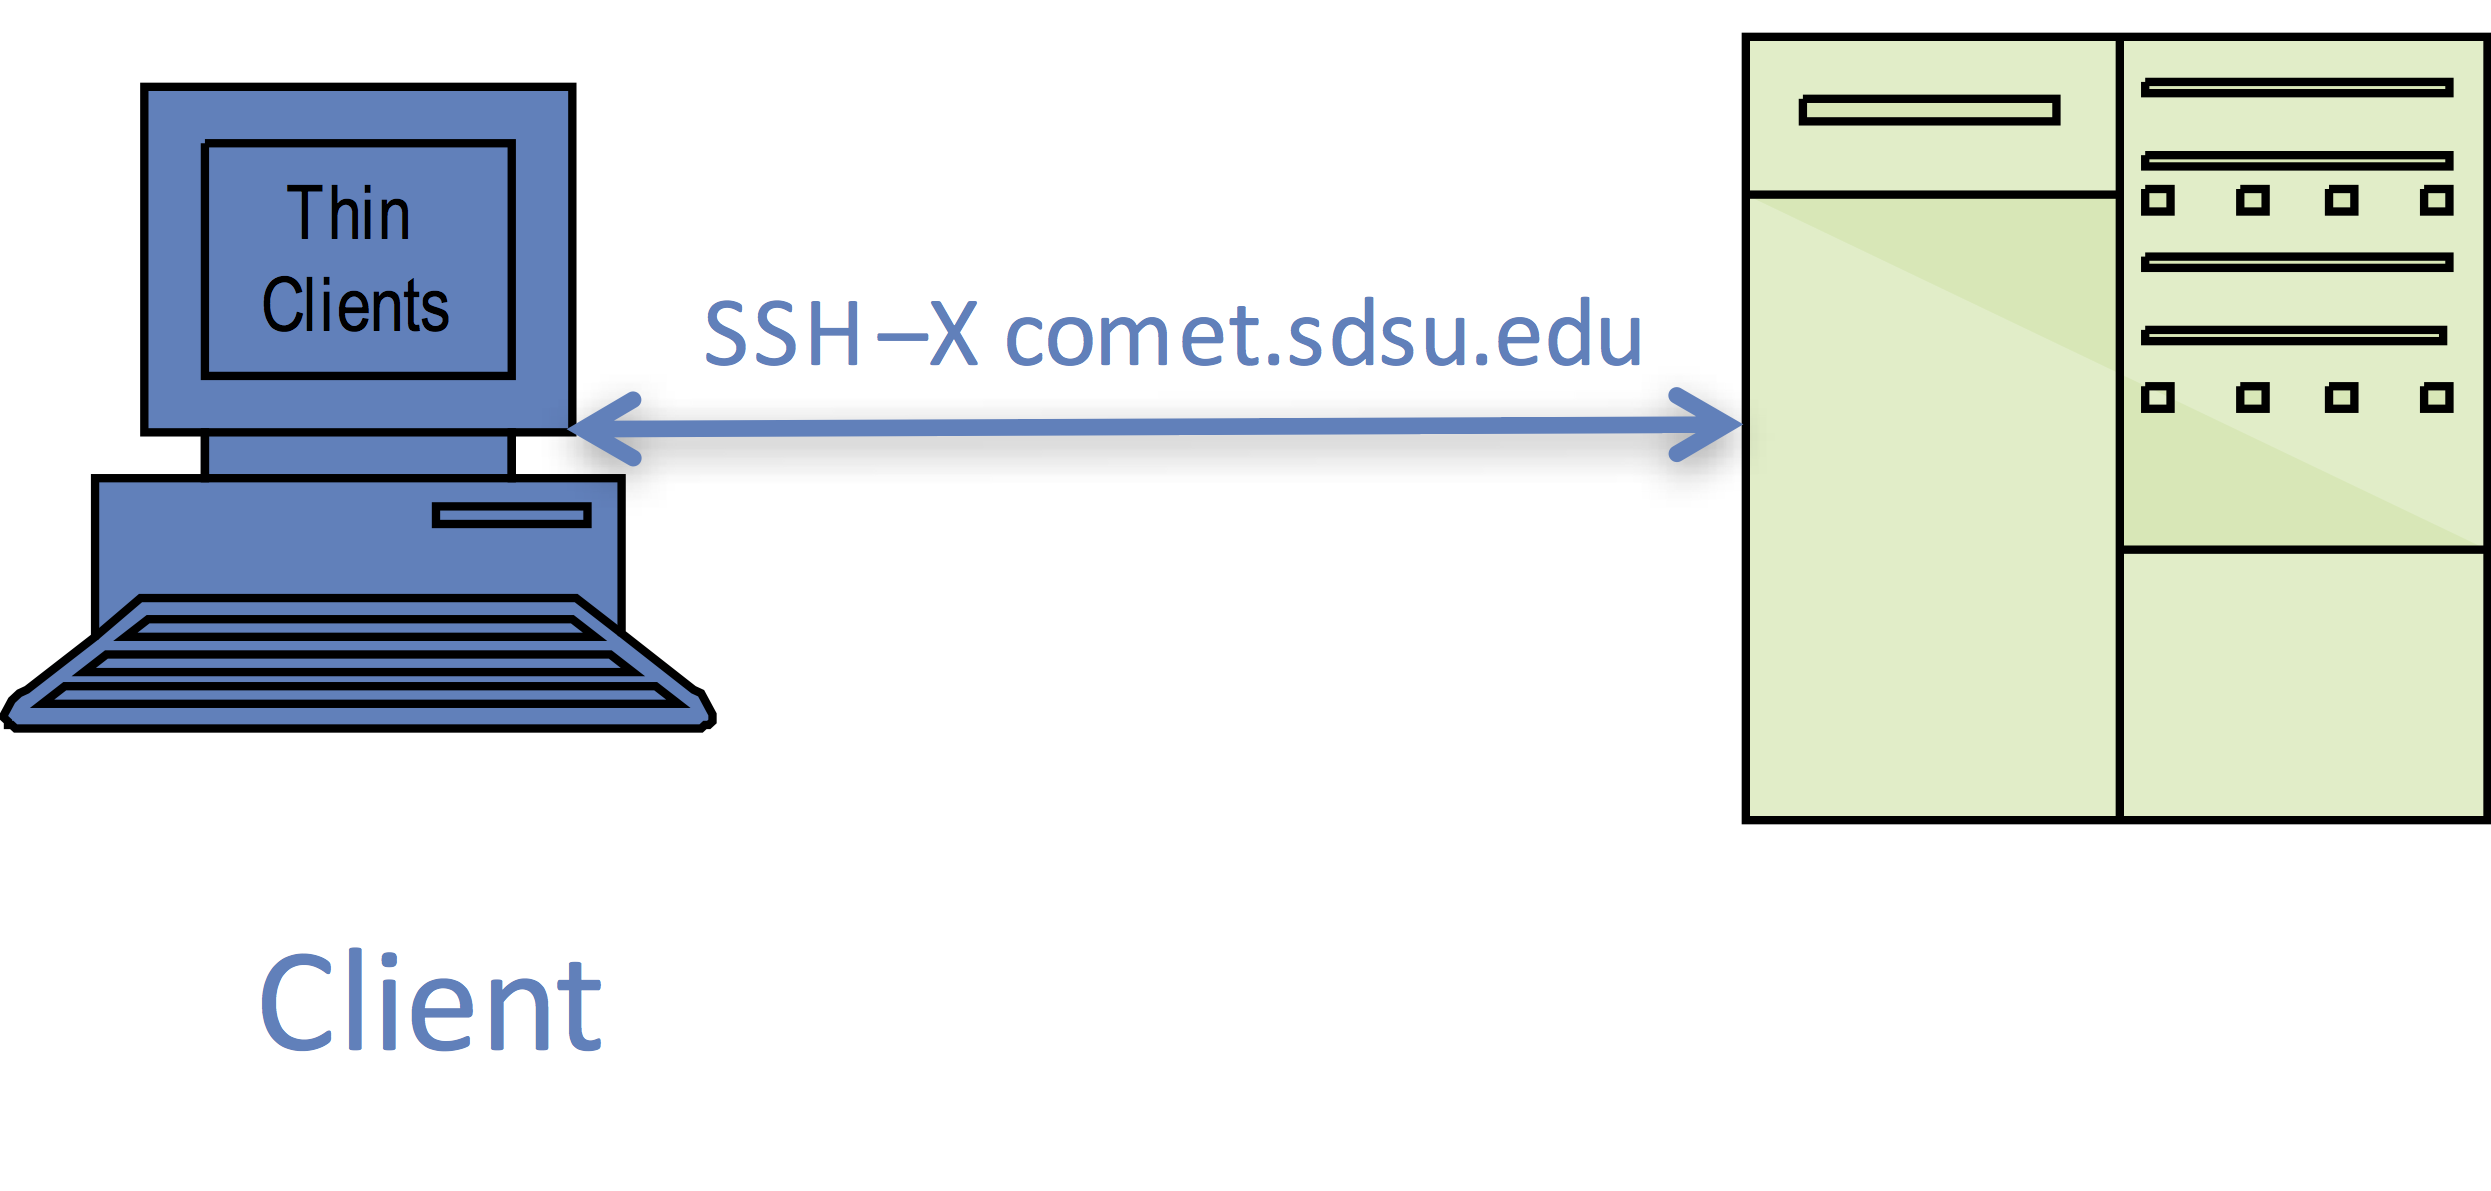
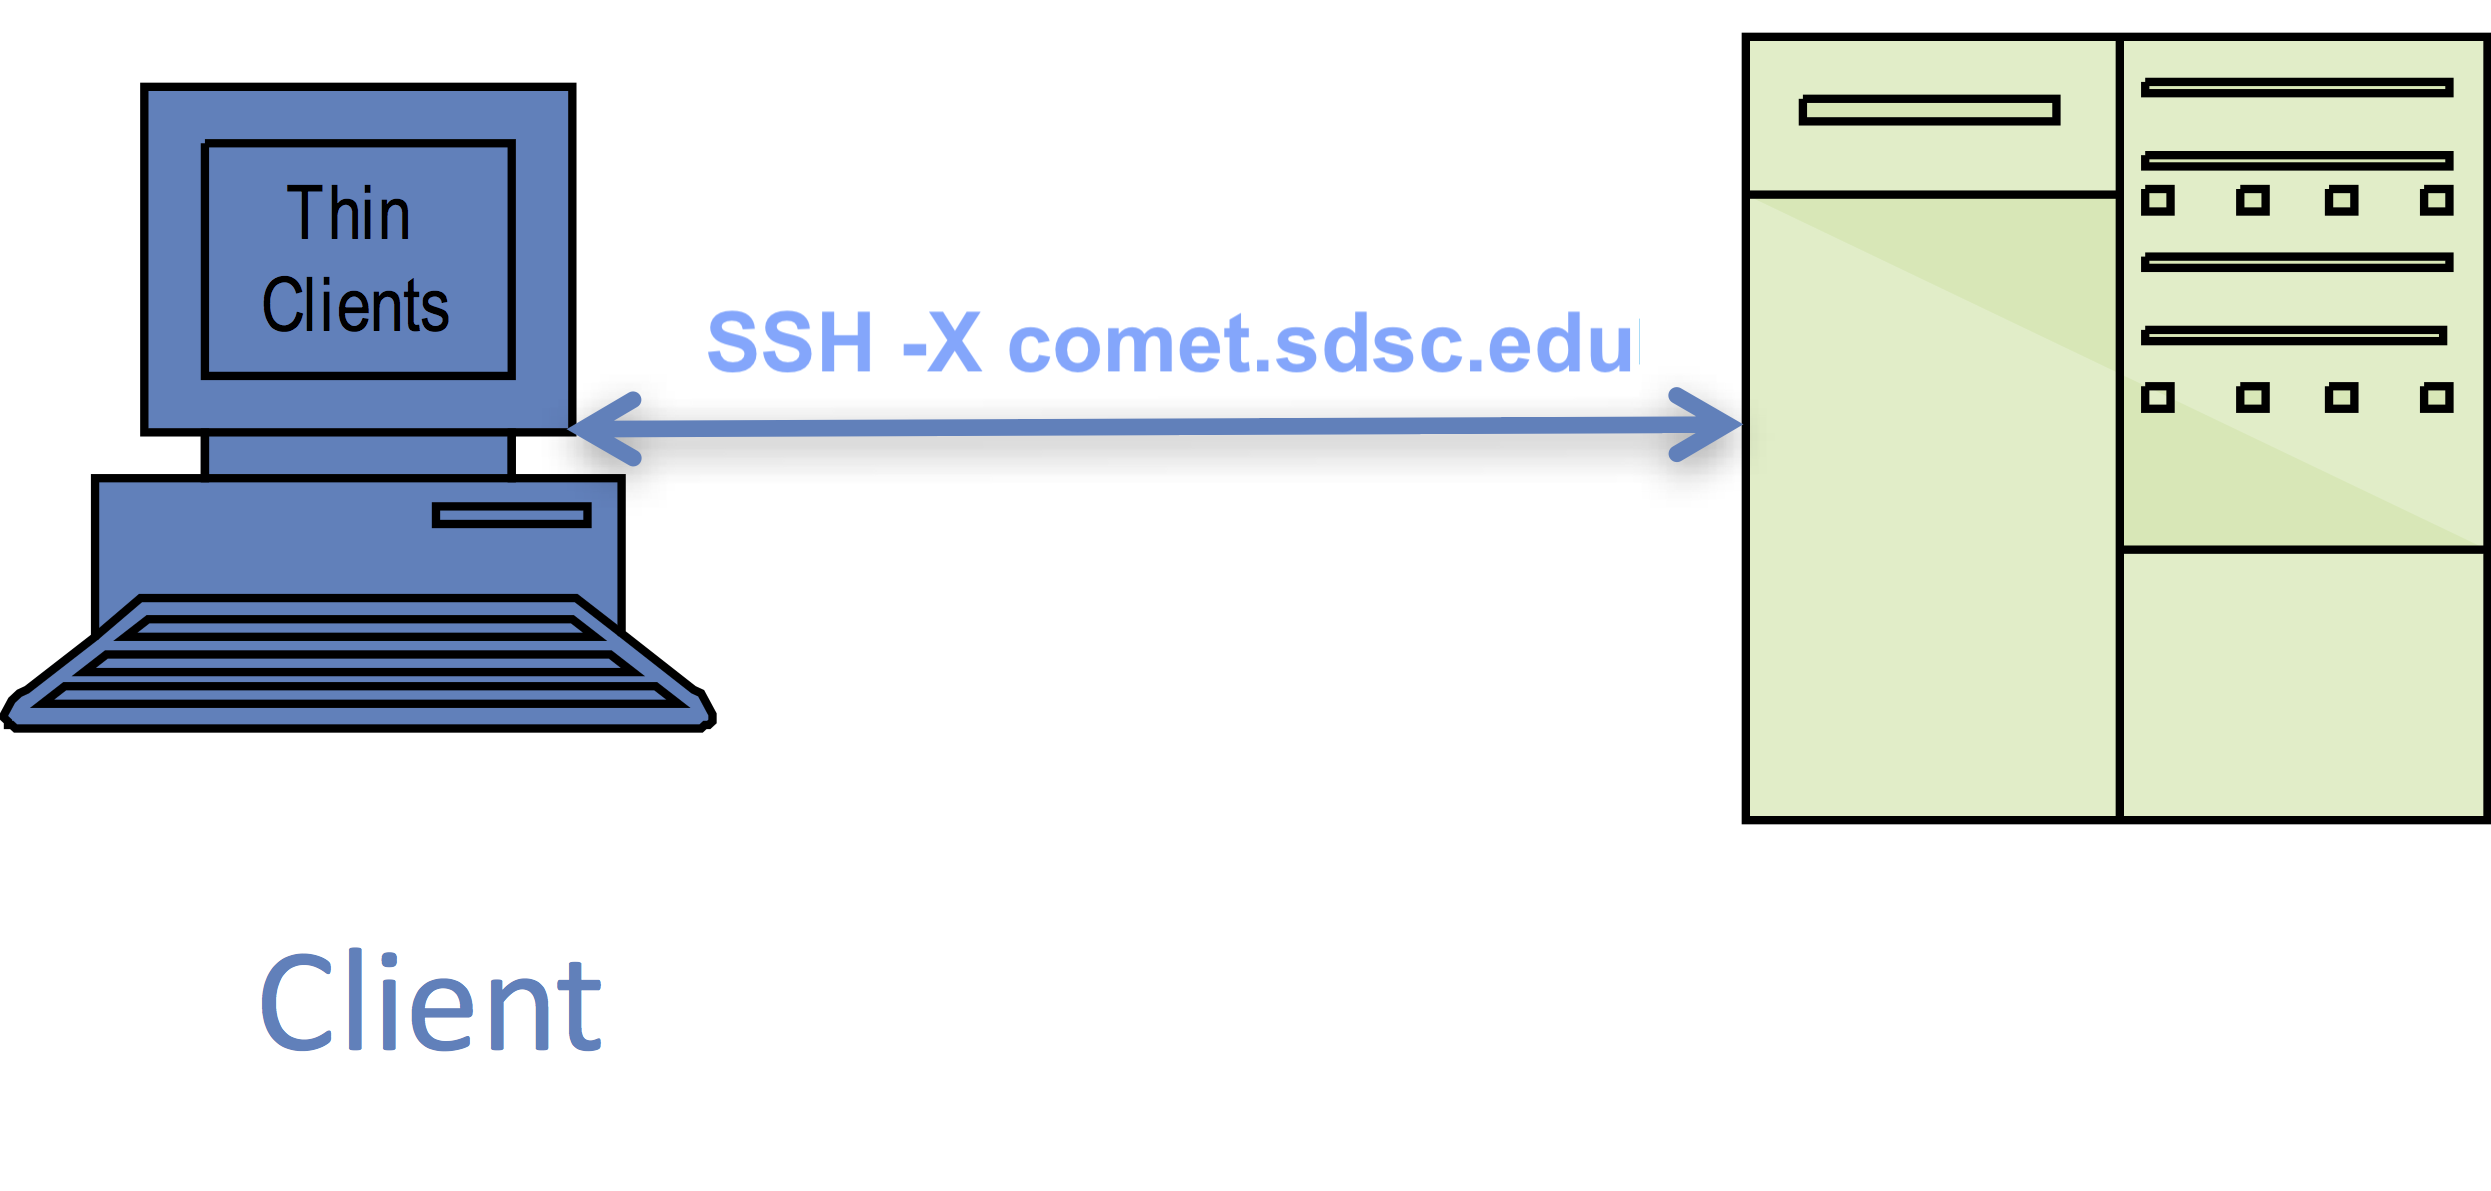
update connect_to_hpc materials

Changed region(s): [[0.2782, 0.2485, 0.68, 0.3107]]

diff --git a/connecting_to_hpc_systems/connect-to-comet.md b/connecting_to_hpc_systems/connect-to-comet.md
@@ -1,47 +1,69 @@
-# Connecting to your Comet.sdsc.edu Account
+# Preparing to Work on SDSC HPC Resources: Accounts and Connecting
+
+
 [//]: # " Comment example "
 
 [//]: # ( Comment2 )
 
-In this exercise, you must use your SDSC or XSEDE account to log onto the Comet cluster. This exercise verifies that your account is working, that your laptop is properly configured, and that your Comet user environment is correctly setup.
+In this exercise, you must use your SDSC or XSEDE account to log onto the Comet cluster. To do this you need a comet account, and an application that can be used to connect to Comet using [SSH](https://en.wikipedia.org/wiki/Secure_Shell). This exercise verifies that your account is working, that your laptop is properly configured, and that your Comet user environment is correctly setup.
 
 <a name="top">In this document, we will show you how to:
     
 * [Obtain your Comet account](#obtain-your-comet-account)
-* [Using the Terminal Application to connect to Comet](#term-app)
+* [Getting Domain Name & Host Information](#term-app-dn-info)
+* [Using a Terminal Application to Connect to Comet](#term-app)
     - [Mac Users](#term-app-mac-users)
-    - [Windows Users](#term-app-windows)
-        - [Windows 10](#term-app-windows10)
-        - [Windows (pre-Win10)](#term-app-windows-older)
+    - [Windows Users](#term-app-windows-users)
     - [Terminal Connection Example](#term-app-example)
-    - [Getting Domain Name & Host Information](#term-app-dn-info)
-* [Connect via Passwordless SSH](#passwordless)
+* [Expand your knowledge using Comet User guide](#comet-user-guide)
 
-Note: if you have any difficulties completing this task, please contact Institute staff at <consult@sdsc.edu>.
-
-### Please read the Comet user guide and familiarize yourself with the hardware, file systems, batch job submission, compilers and modules.
-
-Comet User Guide: http://www.sdsc.edu/support/user_guides/comet.html
- 
+Note: if you have any difficulties completing this task, please contact HPC consulting at <consult@sdsc.edu>.
 
 ## <a name="obtain-your-comet-account"></a>Obtain your comet account:
 
-To obtain a trial Comet account see the Comet user guids at  http://www.sdsc.edu/support/user_guides/comet.html#trial_accounts
+To obtain a trial Comet account see the Comet user guide at  http://www.sdsc.edu/support/user_guides/comet.html#trial_accounts
+
+You will be directed to the XSEDE portal, where you will create a Portal User account. Information from that account will be used to set up your *trial* Comet account. Note that the Portal account and the Comet account may be different, so keep track of them both. The Comet account can then be used for other Comet allocations.
 
 [Back to Top](#top)
 <hr>
 
-## <a name="term-app"></a>How to Use the Terminal Application:
+## <a name="term-app-dn-info"></a>Getting Domain Name & Host Information
+Each machine you work with will have a `<domain_name>`,  `<hostname>` or `<ip_address>`. You can learn about IP addresses and domain names here: https://computer.howstuffworks.com/dns.htm.
+
+* NOTE: The *DN* (domain name) for Comet is    `comet.sdsc.edu`
+
+You may need to know the physical IP address of the cluster. To do this, run the `nslookup` command from the command line of your local terminal window (or on comet if are logged in)
+```
+[username@laptop:] nslookup comet.sdsc.edu
+Server:		192.168.86.1
+Address:	192.168.86.1#53
+
+Non-authoritative answer:
+Name:	comet.sdsc.edu
+Address: 198.202.113.252
+Name:	comet.sdsc.edu
+Address: 198.202.113.253
+```
+
+The public IP address appears under the line labeled "Non-authoritative answer:" and for Comet there are two. * Comet's DN is. comet.sdsc.edu
+* Comet's IP address is 198.202.113.252 and 198.202.113.253. 
+* You can log onto Comet using either the DN or the IP addresses. 
+
+[Back to Top](#top)
+<hr>
+
+## <a name="term-app"></a>Using a Terminal Application to Connect to Comet:
 
 The terminal applications are used to connect clients (you and your laptop) to remote computers (such as Comet). See https://en.wikipedia.org/wiki/Secure_Shell for more information. The best known example of using a terminal is for logging in/connecting to a remote computer systems by users. This is called a client-server connection. Terminals are interactive: you type in a command to run, and the outputs are displayed on the terminal. Executing any command is done by typing it and pressing Enter.
 
-<img src="./images/ssh-login-comet.png" alt="SSH Connection" width="300px" />
+<img src="ssh-login-comet.png" alt="SSH Connection" width="300px" />
 
 SSH provides a secure channel over any network in a client-server architecture. You will be using your laptop to access SDSC’s HPC systems using the secure shell command `ssh`. It is essential that you be able to run secure shell (or a similar connection tool) with X11 forwarding enabled, which allows you to have data encryption and to launch windows applications (e.g. plotting, or a browser).
 
-*NOTE: The `hostname` for Comet is `comet.sdsc.edu`
+*NOTE: The `hostname` or `DN` for Comet is `comet.sdsc.edu`
 
-<img src="./images/cluster-connection-diagram.png" alt="SSH Connection" width="350px" />
+<img src="cluster-connection-diagram.png" alt="SSH Connection" width="350px" />
 
 [Back to Top](#top)
 <hr>
@@ -55,35 +77,30 @@ For Mac users, the Terminal application is typically used for connections. This 
 
      ssh -v -X username@hostname
 
+To configure your login using *passwordless ssh*, see this tutorial:
+
+https://www.tecmint.com/ssh-passwordless-login-using-ssh-keygen-in-5-easy-steps/
 
 [Back to Top](#top)
 <hr>
 
-## <a name="term-app-windows"></a>MSFT Windows 
-All windows users will need to run a terminal emulation application capable of supporting an X Server and an ssh-like client.
+## <a name="term-app-windows-users"></a>Windows users
+* **Windows 10** has a new terminal app called *Windows Terminal*, which is a terminal emulator for Windows 10 written by Microsoft. It includes support for the Command Prompt, PowerShell, WSL and SSH and other commands. While not a full Unix OS, it has shown to be very popular and useful within the HPC community. MSFT has created a GitHub repo with source code, installation and documentation here:
+   * https://github.com/Microsoft/Terminal
 
-### <a name="term-app-windows10"></a>Windows 10
-Windows Terminal is a terminal emulator for Windows 10 written by Microsoft. It includes support for the Command Prompt, PowerShell, WSL and SSH. The terminal emulator is described here: https://en.wikipedia.org/wiki/Windows_Terminal.
+* **Older Windows** users will need to run an X Server and an ssh-like client. [Cygwin](https://www.cygwin.com) provides a comprehensive Linux-like environment and an X server (Cygwin/X). Putty will also work for direct access to Comet, it is only used for file transfers. For download and installation instructions, see:
 
-<img src="./images/windows-10-powershell-commands.png" alt="Win10 Powershell" width="350px" />
-
-To download and install the PowerShell application, see here [ Available Jan 30, 2020: ] : https://docs.microsoft.com/en-us/skypeforbusiness/set-up-your-computer-for-windows-powershell/download-and-install-windows-powershell-5-1
-
-[Back to Top](#top)
-<hr>
-
-### <a name="term-app-windows-older"></a> Windows (pre-Win10)
-Older  [Cygwin](https://www.cygwin.com) provides a comprehensive Linux-like environment and an X server (Cygwin/X). Putty will also work for direct access to Comet, it is only used for file transfers. For download and installation instructions, see:
-
-* http://www.cygwin.com/
-* http://x.cygwin.com/
-* https://www.putty.org/
+   * http://www.cygwin.com/
+   * http://x.cygwin.com/
+   * https://www.putty.org/
 
 [Back to Top](#top)
 <hr>
 
 ## <a name="term-app-example"></a>Example of a terminal connection:
 ```
+[localuser@localhost]: ssh -X username@comet.sdsc.edu
+Last login: Wed Apr 15 09:58:45 2020 from 12.345.67.89
 Rocks 7.0 (Manzanita)
 Profile built 12:32 03-Dec-2019
 
@@ -95,38 +112,30 @@ Kickstarted 13:47 03-Dec-2019
           --/ /   / / / / /|_/ / __/   / /
            / /___/ /_/ / /  / / /___  / /
            \____/\____/_/  /_/_____/ /_/
-
+###############################################################################
+NOTICE:
+The Comet login nodes are not to be used for running processing tasks.
+This includes running Jupyter notebooks and the like.  All processing
+jobs should be submitted as jobs to the batch scheduler.  If you don’t
+know how to do that see the Comet user guide
+https://www.sdsc.edu/support/user_guides/comet.html#running.
+Any tasks found running on the login nodes in violation of this policy
+ may be terminated immediately and the responsible user locked out of
+the system until they contact user services.
+###############################################################################
+[username@comet-ln2 ~]$
 ```
+Now that you are logged onto Comet, you can begin working with your code. If you are new to Unix, please see the tutorials:
+* [Basic Linux Skills](https://github.com/sdsc-hpc-training/webinars/tree/master/basic_skills/basic_linux_skills)
+* [Comet 101](https://github.com/sdsc-hpc-training/webinars/tree/master/20200416_comet_101)
+
 
 [Back to Top](#top)
 <hr>
 
-## <a name="term-app-dn-info"></a>Getting Domain Name & Host Information
-Each machine you work with will have a `<domain_name>`,  `<hostname>` or `<ip_address>`. You can learn about IP addresses and domain names here: https://computer.howstuffworks.com/dns.htm.
 
-* NOTE: The *DN* (domain name) for Comet is    `comet.sdsc.edu`
+## <a name="comet-user-guide"></a>Comet User Guide
 
-You may need to know the physical IP address of the cluster. To do this, run the `nslookup` command from the command line of your terminal window
-```
-[username@comet:] nslookup comet.sdsc.edu
-Server:		192.168.86.1
-Address:	192.168.86.1#53
+Please read the Comet user guide and familiarize yourself with the hardware, file systems, batch job submission, compilers and modules. The guide can be found here:
 
-Non-authoritative answer:
-Name:	comet.sdsc.edu
-Address: 198.202.113.253
-Name:	comet.sdsc.edu
-Address: 198.202.113.252
-```
-
-The IP address is the  line labeled "Address" and for Comet there are two. YOu can log onto Comet using either the DN or the IP addresses.
-
-[Back to Top](#top)
-
-<hr>
-
-## <a name="passwordless"></a>Connect via Passwordless SSH
-
-To configure your login using *passwordless ssh*, see this tutorial:
-* https://www.tecmint.com/ssh-passwordless-login-using-ssh-keygen-in-5-easy-steps
-
+http://www.sdsc.edu/support/user_guides/comet.html
